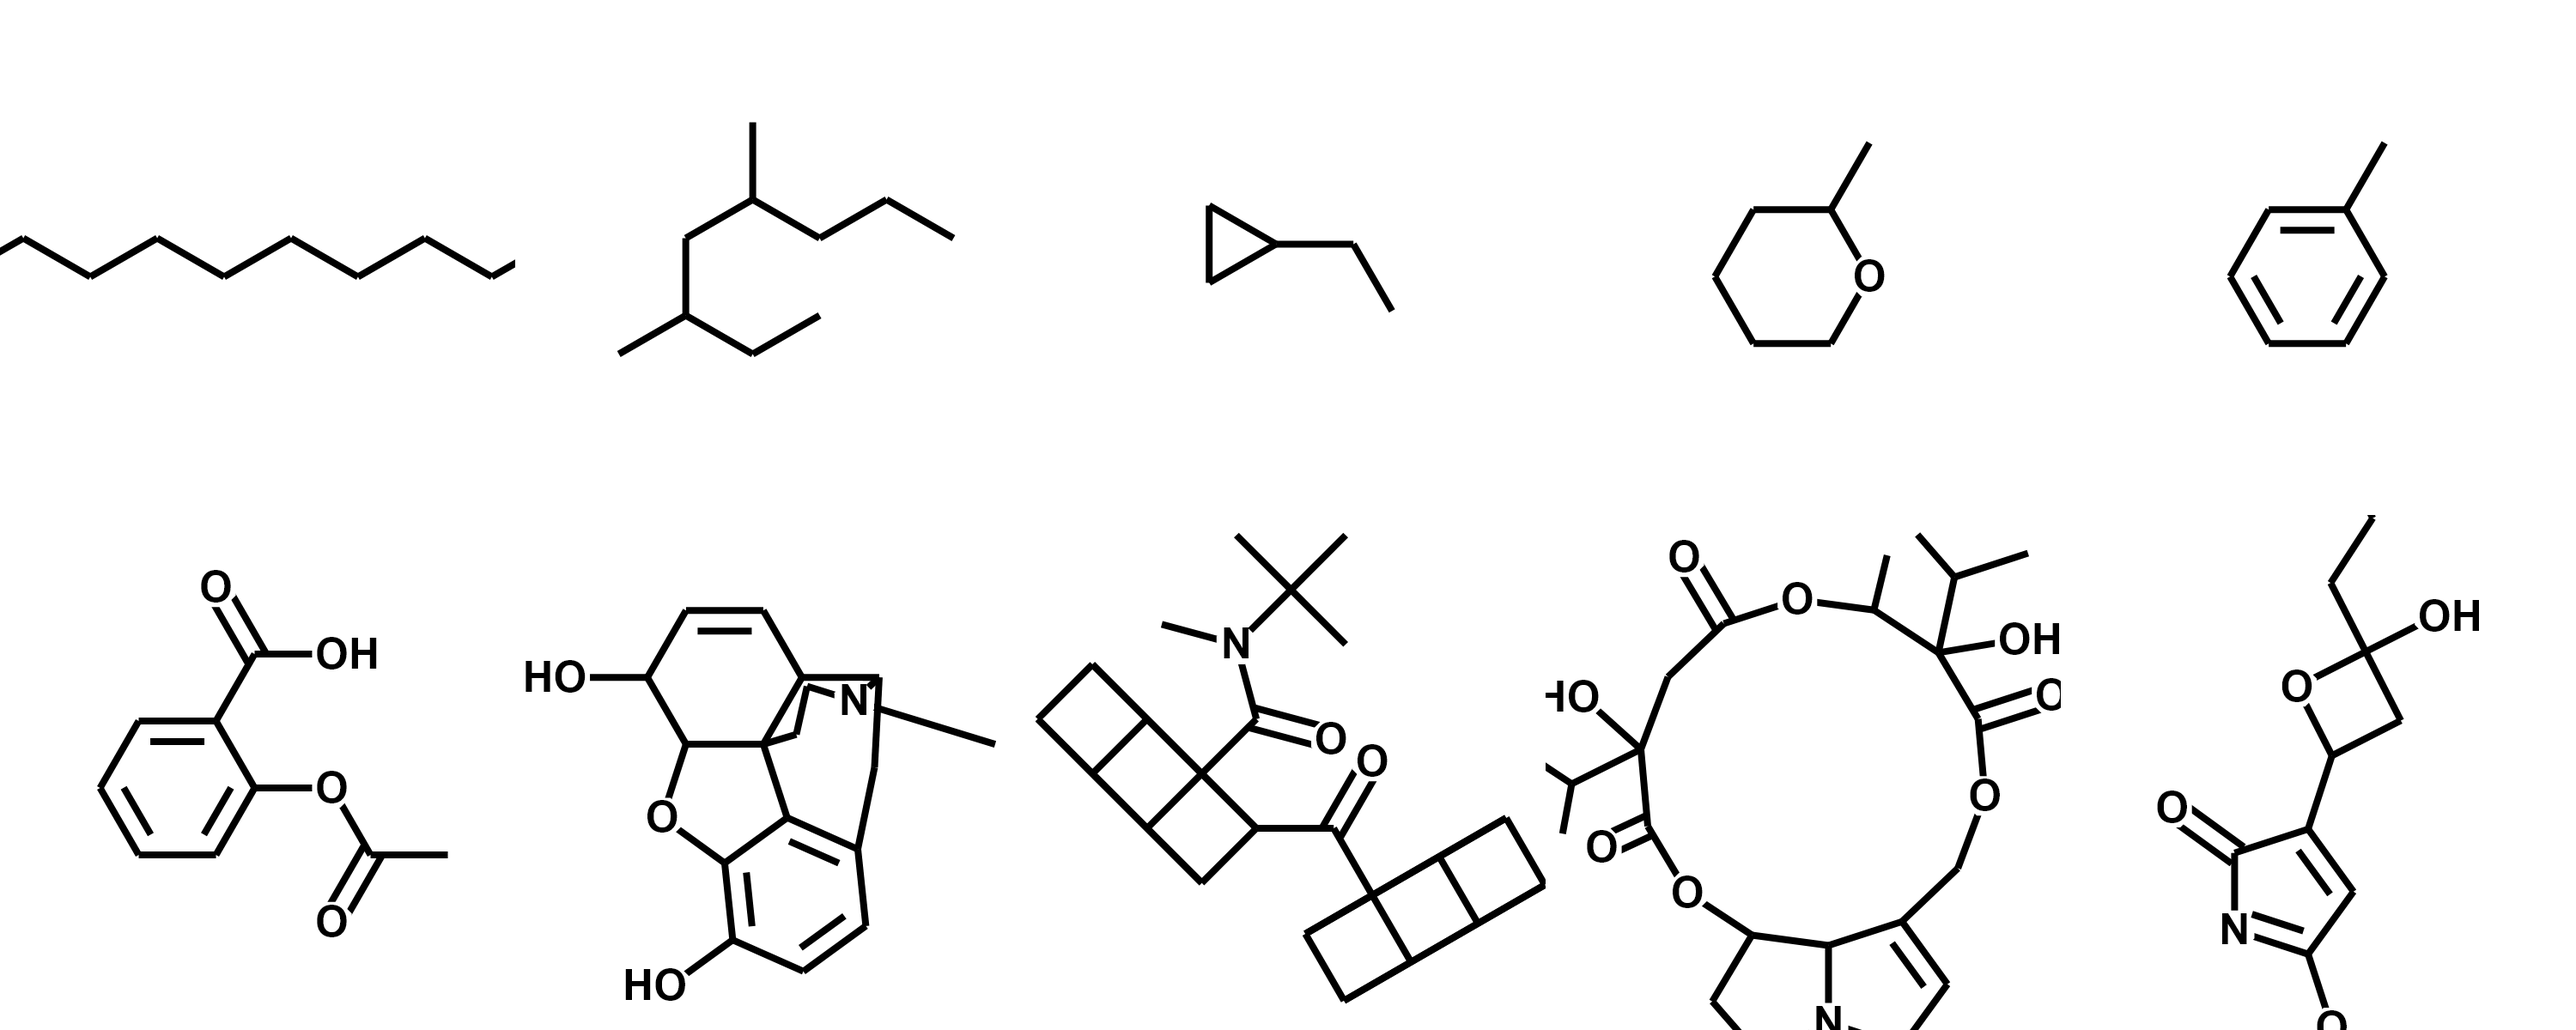
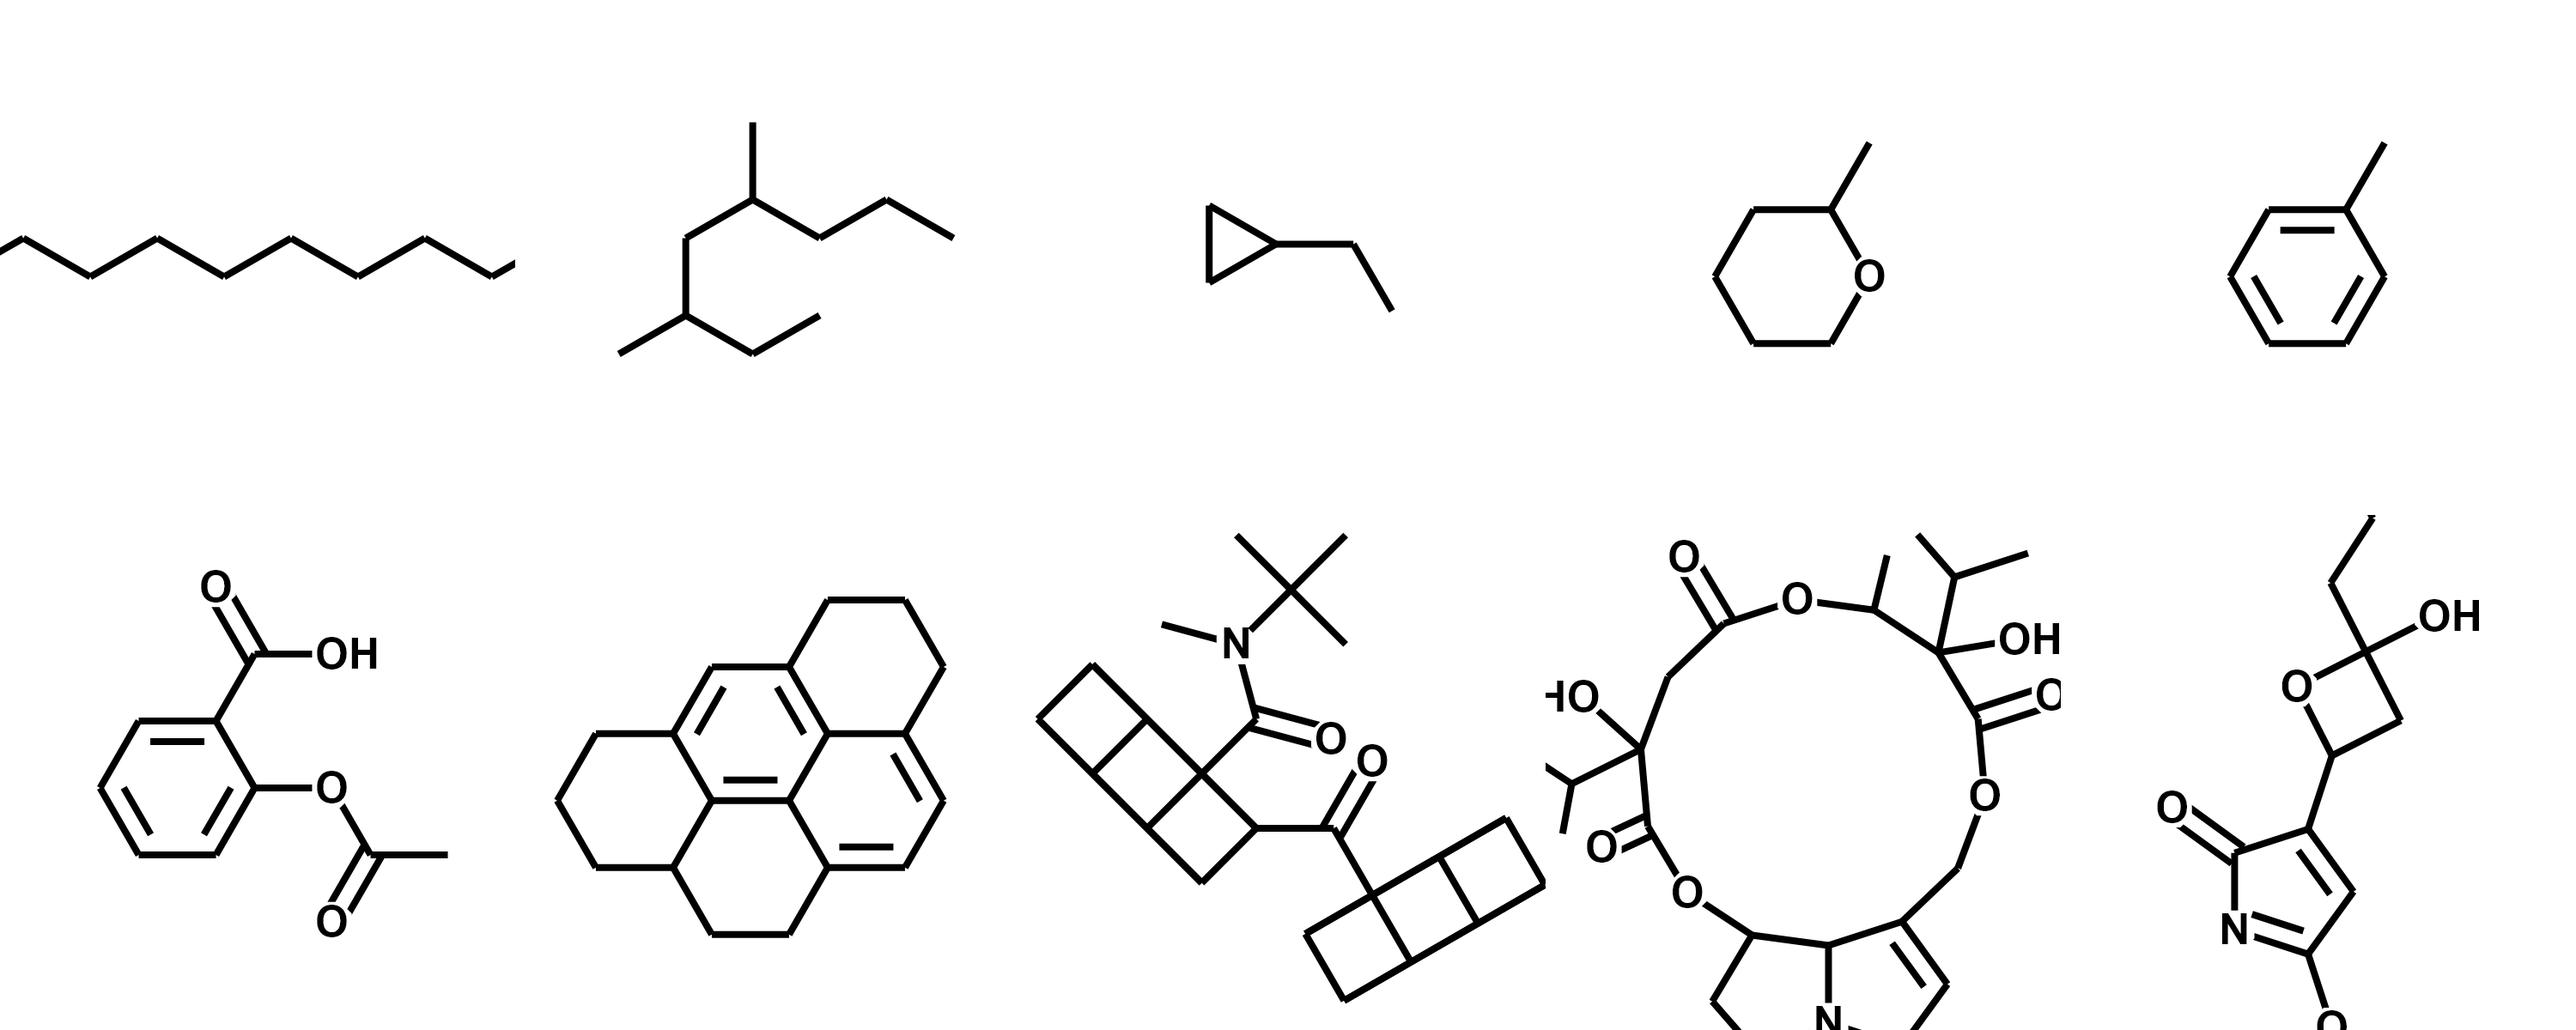
update highlights

Changed region(s): [[0.186, 0.555, 0.403, 0.9867]]

diff --git a/chemdraw/drawers/draw_bonds.py b/chemdraw/drawers/draw_bonds.py
@@ -26,7 +26,7 @@ def draw_bonds(fig: go.Figure, config: ConfigDrawerBonds, bonds: list[Bond]) -> 
 
     for bond in bonds:
         if bond.type_ == BondType.single:
-            fig = _draw_bond_on_fig(fig, config, x=bond.x, y=bond.y, color=config.color, width=config.width)
+            fig = _draw_bond_on_fig(fig, config, bond.x, bond.y, bond)
         elif bond.type_ == BondType.double:
             if bond.alignment == BondAlignment.center:
                 fig = _bond_double_center(fig, config, bond)
@@ -38,7 +38,10 @@ def draw_bonds(fig: go.Figure, config: ConfigDrawerBonds, bonds: list[Bond]) -> 
     return fig
 
 
-def _draw_bond_on_fig(fig: go.Figure, config: ConfigDrawerBonds, x, y, color, width) -> go.Figure:
+def _draw_bond_on_fig(fig: go.Figure, config: ConfigDrawerBonds, x, y, bond) -> go.Figure:
+    color = config.color if bond.color is None else bond.color
+    width = config.width if bond.width is None else bond.width
+
     return fig.add_trace(go.Scatter(x=x, y=y, mode="lines", line=dict(color=color, width=width),
                                     **config.scatter_kwargs))
 
@@ -59,9 +62,9 @@ def _bond_double_center(fig: go.Figure, config: ConfigDrawerBonds, bond: Bond) -
         y_right = [y0, y1]
 
     # left
-    fig = _draw_bond_on_fig(fig, config, x=x_left, y=y_left, color=config.color, width=config.width)
+    fig = _draw_bond_on_fig(fig, config, x_left, y_left, bond)
     # right
-    fig = _draw_bond_on_fig(fig, config, x=x_right, y=y_right, color=config.color, width=config.width)
+    fig = _draw_bond_on_fig(fig, config, x_right, y_right, bond)
 
     return fig
 
@@ -75,7 +78,7 @@ def _double_bond_offset(fig: go.Figure, config: ConfigDrawerBonds, bond: Bond) -
         y_off = bond.y - bond.perpendicular[1] * config.double_bond_offset
 
     # center
-    fig = _draw_bond_on_fig(fig, config, x=bond.x, y=bond.y, color=config.color, width=config.width)
+    fig = _draw_bond_on_fig(fig, config, bond.x, bond.y, bond)
     # right/left
     if config.double_bond_offset_length != 1:
         x0, x1, y0, y1 = vector_math.shorten_line(x_off[0], x_off[1], y_off[0], y_off[1],
@@ -83,7 +86,7 @@ def _double_bond_offset(fig: go.Figure, config: ConfigDrawerBonds, bond: Bond) -
         x_off = [x0, x1]
         y_off = [y0, y1]
 
-    fig = _draw_bond_on_fig(fig, config, x=x_off, y=y_off, color=config.color, width=config.width)
+    fig = _draw_bond_on_fig(fig, config, x_off, y_off, bond)
 
     return fig
 
@@ -99,11 +102,11 @@ def _bond_triple(fig: go.Figure, config: ConfigDrawerBonds, bond: Bond) -> go.Fi
         x_right, y_right = _shorten_bond_triple(config, bond, x_right, y_right)
 
     # center
-    fig = _draw_bond_on_fig(fig, config, x=bond.x, y=bond.y, color=config.color, width=config.width)
+    fig = _draw_bond_on_fig(fig, config, bond.x, bond.y, bond)
     # left
-    fig = _draw_bond_on_fig(fig, config, x=x_left, y=y_left, color=config.color, width=config.width)
+    fig = _draw_bond_on_fig(fig, config, x_left, y_left, bond)
     # right
-    fig = _draw_bond_on_fig(fig, config, x=x_right, y=y_right, color=config.color, width=config.width)
+    fig = _draw_bond_on_fig(fig, config, x_right, y_right, bond)
 
     return fig
 

diff --git a/chemdraw/drawers/draw_highlights.py b/chemdraw/drawers/draw_highlights.py
@@ -9,12 +9,12 @@ from chemdraw.objects.bonds import Bond
 class ConfigDrawerHighlights:
     show_atoms = True
     show_bonds = True
-    highlight_bonds_between_atoms = True
-    highlight_atoms_on_bonds = True
-    atom_color = "rgba(255,0,0,0.5)"
-    bond_color = "rgba(255,0,0,0.5)"
-    atom_width = 30
-    bond_width = 30
+    highlight_bonds_between_atoms = False
+    highlight_atoms_on_bonds = False
+    atom_color = "rgba(255,0,0,0.2)"
+    bond_color = "rgba(255,0,0,0.2)"
+    atom_size = 40
+    bond_width = 20
     scatter_kwargs = dict(hoverinfo="skip", cliponaxis=False)
 
     def __repr__(self):
@@ -26,11 +26,11 @@ def draw_highlights(fig: go.Figure, config: ConfigDrawerHighlights, atoms: list[
     if not atoms[0].parent.has_highlights:
         return fig
 
-    if config.show_atoms:
-        fig = _add_highlight_to_atoms(fig, config, atoms)
-
     if config.show_bonds:
         fig = _add_highlight_to_bonds(fig, config, bonds)
+
+    if config.show_atoms:
+        fig = _add_highlight_to_atoms(fig, config, atoms)
 
     return fig
 
@@ -38,22 +38,20 @@ def draw_highlights(fig: go.Figure, config: ConfigDrawerHighlights, atoms: list[
 def _add_highlight_to_atoms(fig: go.Figure, config: ConfigDrawerHighlights, atoms: list[Atom]) -> go.Figure:
     for atom in atoms:
         if atom.highlight or config.highlight_atoms_on_bonds and any([bond.highlight for bond in atom.bonds]):
-            x, y = _get_atom_line_length(atom)
-
-            fig.add_trace(go.Scatter(x=x, y=y, mode="lines",
-                                     line=dict(color=config.atom_color, width=config.bond_width)))
+            color = config.atom_color if atom.highlight_color is None else atom.highlight_color
+            size = config.atom_size if atom.highlight_size is None else atom.highlight_size
+            fig.add_trace(go.Scatter(x=[atom.position[0]], y=[atom.position[1]], mode="markers",
+                                     marker=dict(color=color, size=size), **config.scatter_kwargs))
 
     return fig
-
-
-def _get_atom_line_length(atom: Atom) -> tuple[np.ndarray, np.ndarray]:
-    return np.array([atom.position[0], atom.position[0]+0.1]), np.array([atom.position[1], atom.position[1]])
 
 
 def _add_highlight_to_bonds(fig: go.Figure, config: ConfigDrawerHighlights, bonds: list[Bond]) -> go.Figure:
     for bond in bonds:
         if bond.highlight or config.highlight_bonds_between_atoms and all([atom.highlight for atom in bond.atoms]):
+            color = config.bond_color if bond.highlight_color is None else bond.highlight_color
+            width = config.bond_width if bond.highlight_width is None else bond.highlight_width
             fig.add_trace(go.Scatter(x=bond.x, y=bond.y, mode="lines",
-                                     line=dict(color=config.atom_color, width=config.bond_width, shape="spline")))
+                                     line=dict(color=color, width=width), **config.scatter_kwargs))
 
     return fig

diff --git a/examples/_create_readme_figures.py b/examples/_create_readme_figures.py
@@ -16,7 +16,7 @@ def grid():
         "O1CCCCC1C",
         "C1=CC=CC=C1C",
         "O=C(C)Oc1ccccc1C(=O)O",
-        "CN1CCC23C4C1CC5=C2C(=C(C=C5)O)OC3C(C=C4)O",
+        "C1(CCC2)=C3C2=CC4=C5C3=C(CCC5CCC4)C=C1",
         "CC(C)(C)N(C)C(=O)C14C3C2C1C5C2C3C45C(=O)C69C8C7C6C%10C7C8C9%10",
         "CC3C(C(=O)OCC1=CCN2C1C(CC2)OC(=O)C(CC(=O)O3)(C(C)C)O)(C(C)C)O",
         "CCCC1(CC(O1)C2=CC(=NC2=O)OC)O"
@@ -46,9 +46,9 @@ def ring_highlights():
 
     molecule = chemdraw.Molecule(mol)
     for ring in molecule.rings:
-        ring.highlight = True  # all rings are highlighted (with default color)
+        ring.highlight = True  # all rings are highlighted (with default highlight_color)
         if ring.aromatic:  # aromatic are green highlighted
-            ring.color = "rgba(0,255,0,0.5)"
+            ring.highlight_color = "rgba(0,255,0,0.5)"
 
     drawer = chemdraw.Drawer(molecule, title=mol, config=config)
     drawer.draw_img(".\\imgs\\ring_highlights.svg")
@@ -61,14 +61,26 @@ def atom_bond_highlights():
     config.highlights.show = True
 
     molecule = chemdraw.Molecule(mol)
-    bonds = [0,2,19,5,6,21,15,14,13,12,11,10,16,17,18]
-    for ring in molecule.rings:
-        ring.highlight = True  # all rings are highlighted (with default color)
-        if ring.aromatic:  # aromatic are green highlighted
-            ring.color = "rgba(0,255,0,0.5)"
+    bond_ids = [0, 1,  2, 19, 5, 6, 21, 15, 14, 13, 12, 11, 10, 16, 17, 18]
+    for id_ in bond_ids:
+        molecule.bonds[id_].highlight = True
+    for atom in molecule.atoms:
+        atom.highlight = True
+        atom.highlight_color = "rgba(0,255,0,0.2)"
+    molecule.bonds[8].highlight = True
+    molecule.bonds[8].highlight_color = "rgba(0,255,0,0.2)"
+    molecule.bonds[20].highlight = True
+    molecule.bonds[20].highlight_color = "rgba(0,255,0,0.2)"
+
+    atom_ids = [0, 1,  2, 3, 5, 6, 7, 16, 15, 14, 13, 12, 11, 10, 17, 18]
+    for id_ in atom_ids:
+        molecule.atoms[id_].highlight_color = "rgba(255,0,0,0.2)"
 
     drawer = chemdraw.Drawer(molecule, title=mol, config=config)
-    drawer.draw_img(".\\imgs\\ring_highlights.svg")
+
+    drawer = chemdraw.Drawer(molecule, title=mol, config=config)
+    drawer.draw_img(".\\imgs\\highlights.svg")
+
 
 if __name__ == "__main__":
     simple()

diff --git a/chemdraw/drawers/draw_atoms.py b/chemdraw/drawers/draw_atoms.py
@@ -50,6 +50,8 @@ def _add_atoms_with_annotations(fig: go.Figure, config: ConfigDrawerAtoms, atoms
             continue  # skip drawing carbons
 
         symbol, x, y = _get_symbol(config, atom)
+        font = config.font if atom.font is None else atom.font
+        font_size = config.font_size if atom.font_size is None else atom.font_size
 
         fig.add_annotation(
             x=x,
@@ -57,9 +59,9 @@ def _add_atoms_with_annotations(fig: go.Figure, config: ConfigDrawerAtoms, atoms
             text=symbol,
             showarrow=False,
             font=dict(
-                family=config.font,
-                size=config.font_size,
-                color=_get_color(config, atom.symbol)
+                family=font,
+                size=font_size,
+                color=_get_color(config, atom)
             ),
             bgcolor=config.bgcolor if config.background_shape == "tight" else None,
             # borderwidth=config.borderwidth,
@@ -127,10 +129,13 @@ def _text_alignment(config: ConfigDrawerAtoms, atom: Atom, align: str) -> tuple[
         return atom.position[0] + config.align_offset, atom.position[1]
 
 
-def _get_color(config: ConfigDrawerAtoms, atom: str) -> str:
+def _get_color(config: ConfigDrawerAtoms, atom: Atom) -> str:
+    if atom.font_color is not None:
+        return atom.font_color
+
     if config.colors_add:
-        if atom in config.colors:
-            return config.colors[atom]
+        if atom.symbol in config.colors:
+            return config.colors[atom.symbol]
 
     return config.font_color
 

diff --git a/examples/example_highlights.py b/examples/example_highlights.py
@@ -2,16 +2,27 @@ import chemdraw
 
 
 def main():
-    mol = "C(C(C#N)NC)C2=CC=C1OCOC1=C2"
-    # mol = "C1(CCC2)=C3C2=CC4=C5C3=C(CCC5CCC4)C=C1"
+    # mol = "C(C(C#N)NC)C2=CC=C1OCOC1=C2"
+    mol = "C1(CCC2)=C3C2=CC4=C5C3=C(CCC5CCC4)C=C1"
 
     config = chemdraw.DrawerConfig()
     config.highlights.show = True
 
     molecule = chemdraw.Molecule(mol)
-    # bond_ids = [0, 1,  2, 19, 5, 6, 21, 15, 14, 13, 12, 11, 10, 16, 17, 18]
-    # for id_ in bond_ids:
-    #     molecule.bonds[id_].highlight = True
+    bond_ids = [0, 1,  2, 19, 5, 6, 21, 15, 14, 13, 12, 11, 10, 16, 17, 18]
+    for id_ in bond_ids:
+        molecule.bonds[id_].highlight = True
+    for atom in molecule.atoms:
+        atom.highlight = True
+        atom.highlight_color = "rgba(0,255,0,0.2)"
+    molecule.bonds[8].highlight = True
+    molecule.bonds[8].highlight_color = "rgba(0,255,0,0.2)"
+    molecule.bonds[20].highlight = True
+    molecule.bonds[20].highlight_color = "rgba(0,255,0,0.2)"
+
+    atom_ids = [0, 1,  2, 3, 5, 6, 7, 16, 15, 14, 13, 12, 11, 10, 17, 18]
+    for id_ in atom_ids:
+        molecule.atoms[id_].highlight_color = "rgba(255,0,0,0.2)"
 
     drawer = chemdraw.Drawer(molecule, title=mol, config=config)
 

diff --git a/chemdraw/drawers/draw_ring_highlights.py b/chemdraw/drawers/draw_ring_highlights.py
@@ -24,7 +24,7 @@ def draw_ring_highlight(fig: go.Figure, config: ConfigDrawerRingHighlights, ring
     for ring in rings:
         if ring.highlight:
             xy = _get_coordinates(config, ring)
-            color = config.color if ring.color is None else ring.color
+            color = config.color if ring.highlight_color is None else ring.highlight_color
 
             fig.add_trace(go.Scatter(x=xy[:, 0], y=xy[:, 1], mode="lines", fill='toself', fillcolor=color,
                                      line=dict(color='rgba(0, 0, 0, 0)')))

diff --git a/examples/random_stuff.py b/examples/random_stuff.py
@@ -4,10 +4,11 @@ import numpy as np
 
 
 def main():
-    xy = np.array([[1,1], [2,2], [3,3], [None, None], [5, 5], [6,6]])
+    xy = np.array([[1,1], [2,5], [3,3], [None, None], [3, 3], [6,6]])
 
     fig = go.Figure()
-    fig.add_trace(go.Scatter(x=xy[:, 0], y=xy[:, 1], mode="lines+markers"))
+    fig.add_trace(go.Scatter(x=xy[:, 0], y=xy[:, 1], mode="lines+markers", marker=dict(color="rgba(255,0,0,0.5)", size=40),
+                             line=dict(color="rgba(255,0,0,0.5)", width=30)))
     fig.show()
 
     print("hi")

diff --git a/chemdraw/objects/atoms.py b/chemdraw/objects/atoms.py
@@ -35,9 +35,12 @@ class Atom:
         self.parent = None
 
         # drawing stuff
-        self.font = None
-        self.size = None
+        self.font = None  # ConfigDrawerAtoms.method needs to be False
+        self.font_size = None  # ConfigDrawerAtoms.method needs to be False
+        self.font_color = None  # ConfigDrawerAtoms.method needs to be False
         self.highlight = None
+        self.highlight_color = None
+        self.highlight_size = None
         self.number = self.id_
 
     def __repr__(self) -> str:

diff --git a/chemdraw/objects/bonds.py b/chemdraw/objects/bonds.py
@@ -36,8 +36,11 @@ class Bond:
         self.parent = None
 
         # drawing stuff
-        self.line_width = None
+        self.color = None
+        self.width = None
         self.highlight = None
+        self.highlight_color = None
+        self.highlight_width = None
         self.number = id_
 
     def __repr__(self) -> str:

diff --git a/examples/example_ring_highlights.py b/examples/example_ring_highlights.py
@@ -13,7 +13,7 @@ def main():
     for ring in molecule_drawer.molecule.rings:
         ring.highlight = True
         if ring.aromatic:
-            ring.color = "rgba(0,255,0,0.5)"
+            ring.highlight_color = "rgba(0,255,0,0.5)"
 
     fig = molecule_drawer.draw()
     fig.write_html("temp.html", auto_open=True)

diff --git a/chemdraw/objects/rings.py b/chemdraw/objects/rings.py
@@ -16,9 +16,10 @@ class Ring:
         self._center = None
 
         # for drawing
-        self.color = None
+
         self.number = id_
         self.highlight = False
+        self.highlight_color = None
 
     def __repr__(self) -> str:
         return f"Atoms: {self.atom_ids}"

diff --git a/README.md b/README.md
@@ -132,9 +132,9 @@ config.ring_highlights.show = True
 
 molecule = chemdraw.Molecule(mol)
 for ring in molecule.rings:
-    ring.highlight = True  # all rings are highlighted (with default color)
-    if ring.aromatic:  #  highlighted aromatic green
-        ring.color = "rgba(0,255,0,0.5)"
+  ring.highlight = True  # all rings are highlighted (with default highlight_color)
+  if ring.aromatic:  # highlighted aromatic green
+    ring.highlight_color = "rgba(0,255,0,0.5)"
 
 drawer = chemdraw.Drawer(molecule, title=mol, config=config)
 fig = drawer.draw()
@@ -154,21 +154,36 @@ import chemdraw
 mol = "C1(CCC2)=C3C2=CC4=C5C3=C(CCC5CCC4)C=C1"
 
 config = chemdraw.DrawerConfig()
-config.ring_highlights.show = True
+config.highlights.show = True
 
 molecule = chemdraw.Molecule(mol)
-bonds = 
-for ring in molecule.rings:
-    ring.highlight = True  # all rings are highlighted (with default color)
-    if ring.aromatic:  #  highlighted aromatic green
-        ring.color = "rgba(0,255,0,0.5)"
+
+# highlight outside bonds red
+bond_ids = [0, 1,  2, 19, 5, 6, 21, 15, 14, 13, 12, 11, 10, 16, 17, 18]
+for id_ in bond_ids:
+    molecule.bonds[id_].highlight = True
+
+# highlight all atoms red
+for atom in molecule.atoms:
+    atom.highlight = True
+    
+    
+# highlight all select bonds green
+molecule.bonds[8].highlight = True
+molecule.bonds[8].highlight_color = "rgba(0,255,0,0.2)"
+molecule.bonds[20].highlight = True
+molecule.bonds[20].highlight_color = "rgba(0,255,0,0.2)"
+
+# highlight all select atoms green
+atom_ids = [8, 9, 4]
+for id_ in atom_ids:
+    molecule.atoms[id_].highlight_color = "rgba(0,255,0,0.2)"
 
 drawer = chemdraw.Drawer(molecule, title=mol, config=config)
 fig = drawer.draw()
 fig.show()
-
 ```
 
-![ring highlights](./examples/imgs/ring_highlights.svg)
+![ring highlights](./examples/imgs/highlights.svg)
 
 
